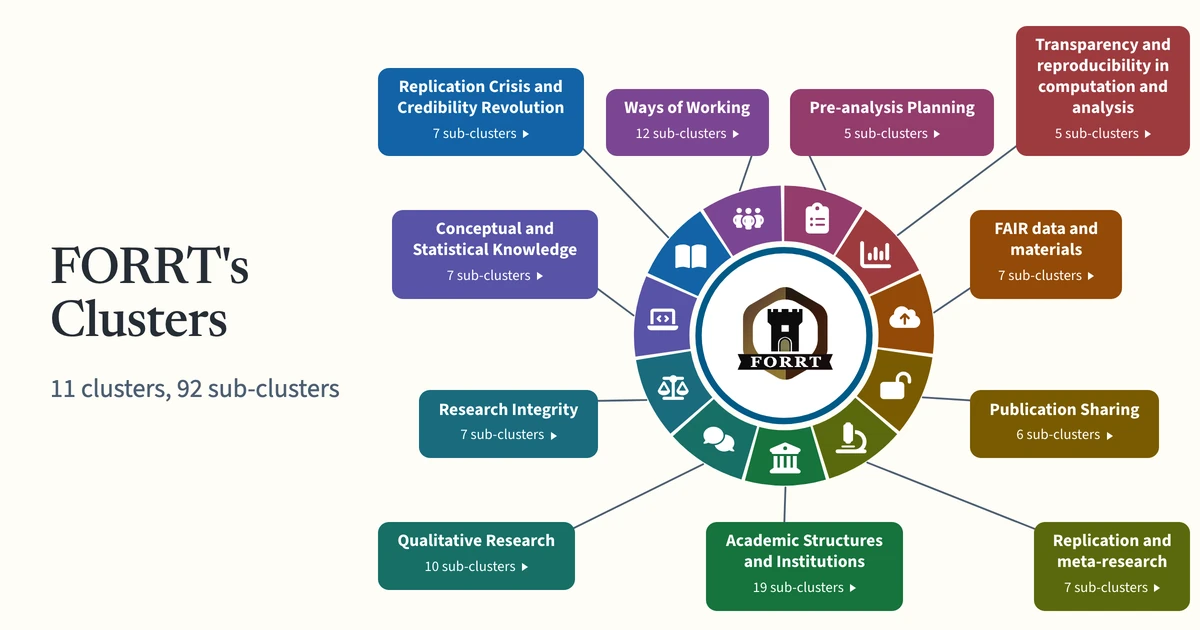
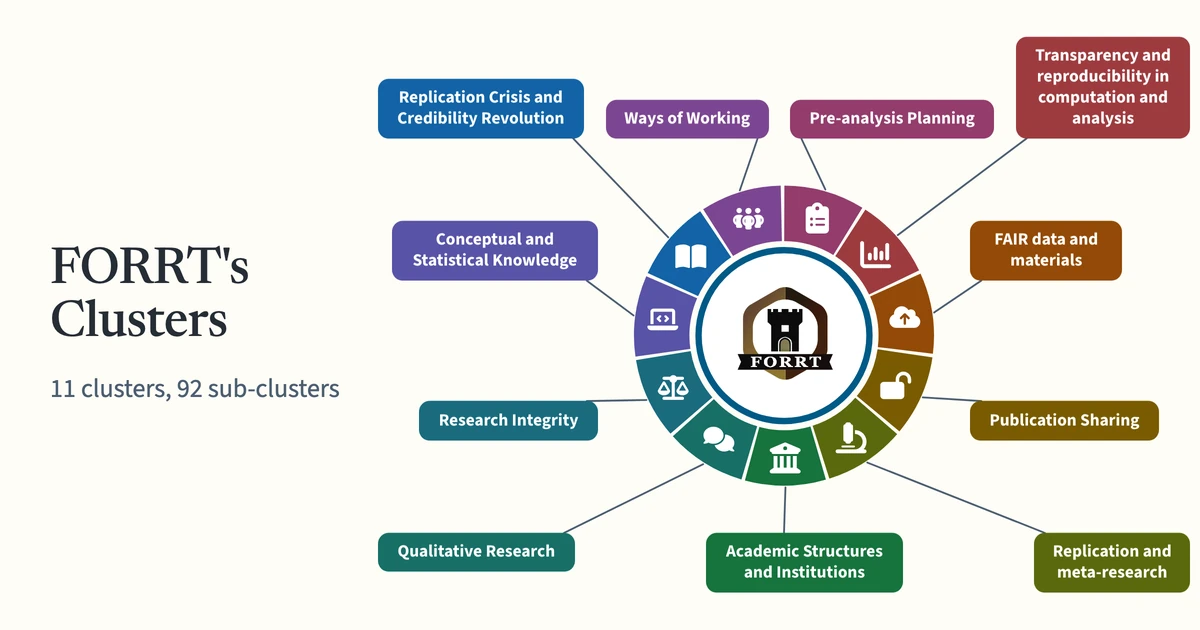
Fold the cluster list into a disclosure and count references per sub-cluster
From 942 px the overview already shows the clusters, so the list after it starts closed; below that it is
the way in and stays open. Each sub-cluster link, in the panels and the list, now shows its number of
references. The share image drops the sub-cluster cue from the cards.

diff --git a/layouts/partials/clusters/overview_list.html b/layouts/partials/clusters/overview_list.html
@@ -1,12 +1,14 @@
 {{/* /clusters/: the eleven clusters as a plain linked list, each with its number in its colour, the first
      sentence of its description (left out where that sentence only counts sub-clusters), and its counts as
-     the label of a disclosure that lists its sub-clusters, linked to their places on its page. The map's
-     info bar copies the name, sentence and counts from here.
+     the label of a disclosure that lists its sub-clusters, linked to their places on its page, each with its
+     number of references. The map's info bar copies the name, sentence and counts from here.
+     From 942 px the overview above shows the same clusters, so the list starts closed there; below that it is
+     the way in and starts open (it is open in the HTML, so it also stays open without scripts).
      Expects dict: data (clusters_v4), arrowColors. */}}
 {{ $clusters := .data.clusters }}
 {{ $marks := .arrowColors }}
-<section class="clusters-overview" aria-labelledby="clusters-overview-heading">
-  <h2 class="clusters-overview__heading" id="clusters-overview-heading">The {{ len $clusters }} clusters</h2>
+<details class="clusters-overview" id="clusters-overview" open>
+  <summary class="clusters-overview__heading">The {{ len $clusters }} clusters as a list</summary>
   <ol class="clusters-overview__list">
     {{ range $ci, $c := $clusters }}
     {{ $num := int $c.number }}
@@ -22,10 +24,11 @@
         {{ $base := printf "/clusters/cluster-%d/" $num | relURL }}
         <details class="clusters-overview__subs">
           <summary class="clusters-overview__count">{{ len $c.sub_clusters }} sub-clusters · {{ $refs }} references</summary>
-          <ul>{{ range $c.sub_clusters }}<li><a href="{{ partial "clusters/sub_href.html" (dict "base" $base "num" $num "name" .name) }}">{{ .name | strings.TrimSpace }}</a></li>{{ end }}</ul>
+          <ul>{{ range $c.sub_clusters }}<li>{{ partial "clusters/sub_link.html" (dict "base" $base "num" $num "sub" .) }}</li>{{ end }}</ul>
         </details>
       </div>
     </li>
     {{ end }}
   </ol>
-</section>
+</details>
+<script>if (window.matchMedia('(min-width: 942px)').matches) document.getElementById('clusters-overview').open = false;</script>

diff --git a/assets/css/doors/clusters.css b/assets/css/doors/clusters.css
@@ -2490,6 +2490,12 @@ body.clusters-mobile-nav-open #just-os-widget{display:none}
    in two columns on a wide screen; then the introduction and diagram, then every cluster in full. */
 .clusters-section-heading,.clusters-overview__heading{font:var(--display-weight) clamp(26px,2.4vw,32px)/1.2 var(--display);color:var(--ink);margin:36px 0 14px}
 .clusters-overview__heading{margin-top:20px}
+summary.clusters-overview__heading{display:flex;align-items:center;gap:12px;min-height:44px;cursor:pointer;list-style:none;margin-bottom:0}
+summary.clusters-overview__heading::-webkit-details-marker{display:none}
+summary.clusters-overview__heading::before{content:"";width:0;height:0;border-left:9px solid currentColor;border-top:7px solid transparent;border-bottom:7px solid transparent;transition:transform .15s}
+.clusters-overview[open]>summary.clusters-overview__heading{margin-bottom:14px}
+.clusters-overview[open]>summary.clusters-overview__heading::before{transform:rotate(90deg)}
+.clusters-refs{display:inline-block;white-space:pre;color:var(--soft);text-decoration:none}
 .clusters-overview__list{list-style:none;margin:0 0 8px;padding:0;display:grid;gap:18px 40px}
 @media (min-width:992px){.clusters-overview__list{grid-template-columns:repeat(2,minmax(0,1fr))}}
 .clusters-overview__list li{display:flex;gap:12px;align-items:flex-start;margin:0}
@@ -2555,4 +2561,4 @@ body.clusters-mobile-nav-open #just-os-widget{display:none}
 .clusters-overview__subs ul{margin:0 0 8px;padding:0 0 0 18px;list-style:none;border-left:3px solid var(--c)}
 .clusters-overview__subs li{margin:0;padding:4px 0 4px 12px;font-size:16px;line-height:1.4}
 .clusters-overview__subs a{color:var(--link);text-decoration:underline;text-underline-offset:3px;text-decoration-thickness:1px}
-@media(prefers-reduced-motion:reduce){.clusters-overview__subs summary::before{transition:none}}
+@media(prefers-reduced-motion:reduce){.clusters-overview__subs summary::before,summary.clusters-overview__heading::before{transition:none}}

diff --git a/layouts/partials/clusters/intro.html b/layouts/partials/clusters/intro.html
@@ -1,6 +1,6 @@
 {{/* intro.html - The way into the clusters on /clusters/: the diagram (drawn from data/clusters_v4.json),
-     whose clusters link to their own pages, then the same clusters as a linked list, which is the route
-     for keyboards, screen readers and phones, then the introduction. */}}
+     whose clusters link to their own pages, then the same clusters as a linked list (closed from 942 px,
+     where it repeats the overview; the way in on phones), then the introduction. */}}
 {{ $palette := partial "clusters/colors.html" }}
 <div class="clusters-intro">
   {{ partial "clusters/map.html" (dict "link_mode" "subpath") }}

diff --git a/layouts/partials/clusters/map.html b/layouts/partials/clusters/map.html
@@ -152,7 +152,7 @@
         </a>
         <div class="clusters-map__panel" id="clusters-map-panel-{{ $num }}" inert>
           <ul style="--cols: {{ $cols }}; --rows: {{ math.Ceil (div (float (len $subs)) $cols) }}">
-            {{ range $subs }}<li><a href="{{ partial "clusters/sub_href.html" (dict "base" $base "num" $num "name" .name) }}">{{ .name | strings.TrimSpace }}</a></li>{{ end }}
+            {{ range $subs }}<li>{{ partial "clusters/sub_link.html" (dict "base" $base "num" $num "sub" .) }}</li>{{ end }}
           </ul>
         </div>
       </li>

diff --git a/layouts/partials/clusters/sub_link.html b/layouts/partials/clusters/sub_link.html
@@ -1,0 +1,3 @@
+{{/* A sub-cluster's link with its number of references in brackets, shared by the overview's panels and the
+     list of clusters so both read the same. Expects dict: base, num (as for sub_href.html), sub (the sub-cluster). */}}
+<a href="{{ partial "clusters/sub_href.html" (dict "base" .base "num" .num "name" .sub.name) }}"><span>{{ .sub.name | strings.TrimSpace }}<span class="clusters-refs"> ({{ len .sub.publications }}<span class="visually-hidden"> references</span>)</span></span></a>

diff --git a/scripts/render_clusters_share_image.py b/scripts/render_clusters_share_image.py
@@ -45,10 +45,18 @@ ISOLATE = """() => {
   stage.style.cssText += `;width:${Math.min(820, 600 * ow / oh)}px;max-width:none;flex:none;margin:0 0 0 auto`;
   stage.querySelectorAll('.clusters-map__panel').forEach((panel) => panel.remove());
   document.body.innerHTML = '';
+  // The cards show only the names: without the sub-cluster cue each box keeps its centre, where its line ends.
+  const cues = [...stage.querySelectorAll('.clusters-map__cue')];
   const main = document.createElement('main');
   main.style.cssText = 'display:flex;align-items:center;gap:24px;padding:15px 30px 15px 50px;width:1200px;height:630px;box-sizing:border-box;overflow:hidden';
   main.append(head, stage);
   document.body.append(main);
+  cues.forEach((cue) => {
+    const tag = cue.closest('.clusters-map__tag');
+    const gap = cue.offsetHeight + parseFloat(getComputedStyle(cue).marginTop);
+    cue.remove();
+    tag.style.translate = `0 ${gap / 2}px`;
+  });
   return Promise.all([document.fonts.ready, ...[...stage.querySelectorAll('image')].map((img) =>
     new Promise((done) => { const probe = new Image(); probe.onload = probe.onerror = done; probe.src = img.href.baseVal; }))]);
 }"""
